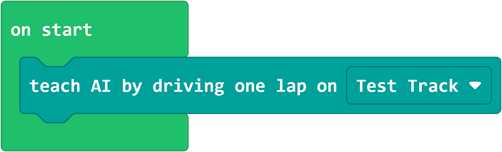
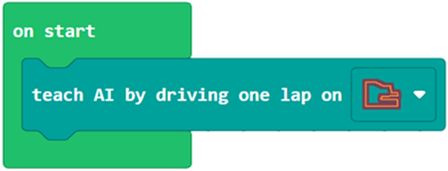
HoAI images for Educator Guide (#7792)
* HoAI images for Educator Guide

* updated educator guide

added Driven by STEM section and new images

* get this group of block images somewhat uniform in scale

* line spacing ahead of the images

* some format edits

---------

Changed region(s): [[0.0, 0.0, 1.0, 1.0]]

diff --git a/docs/tutorials/ai-race/ai-race-info.md b/docs/tutorials/ai-race/ai-race-info.md
@@ -1,12 +1,8 @@
-# Ready, Set, Race! 
+# Ready, Set, Race! | Educator Guide
 
 ![Banner](/static/tutorials/ai-race/racebanner.png "AI race")
 
-**Educator Guide**
-
-The **[Ready, Set, Race!](https://aka.ms/race)** tutorial introduces students to Artificial Intelligence (AI) through a fun game-based learning approach.
-
-Students will train an AI bot to drive a race car based on data from their own driving patterns. They can then compete against the AI bot in a race!
+The **[Ready, Set, Race!](https://aka.ms/race)** tutorial introduces students to Artificial Intelligence (AI) through a fun game-based learning approach. Students will train an AI bot to drive a race car based on data from their own driving patterns. They can then compete against the AI bot in a race!
 
 ## Lesson overview
 
@@ -23,60 +19,94 @@ Students will train an AI bot to drive a race car based on data from their own d
 
 Note: this tutorial does not use generative AI and students will not be exposed to an AI chatbot through this experience.
 
-**Learning Outcomes:**
+## Learning Outcomes
+
 By the end of this lesson, students will be able to:
-- Understand what Artificial Intelligence refers to
-- Explain imitation learning as a type of machine learning in which a model learns from examples or demonstrations
-- Describe the role of training data in an AI system, recognizing that their steering, acceleration, braking, and other driving actions become examples the AI learns from
+
+- Understand what Artificial Intelligence refers to.
+- Explain imitation learning as a type of machine learning in which a model learns from examples or demonstrations.
+- Describe the role of training data in an AI system, recognizing that their steering, acceleration, braking, and other driving actions become examples the AI learns from.
 - Interpret a visualization of training data, using the Memories chart to identify patterns
-- Make predictions about AI behavior based on its training data
-- Train and test an AI model through an iterative process, observing its behavior and collecting additional training data to improve performance
-- Evaluate how the quality and variety of training examples affect AI performance
-- Investigate AI generalization by testing how a model trained through one set of experiences performs in different racing environments or on different tracks
+- Make predictions about AI behavior based on its training data.
+- Train and test an AI model through an iterative process, observing its behavior and collecting additional training data to improve performance.
+- Evaluate how the quality and variety of training examples affect AI performance.
+- Investigate AI generalization by testing how a model trained through one set of experiences performs in different racing environments or on different tracks.
 
-**Key vocabulary:**
-- **Artificial Intelligence (AI)** - the ability of a computer or robot to appear to think and act like a human
+## Key vocabulary
+
+- **Artificial Intelligence (AI)** - the ability of a computer or robot to appear to think and act like a human.
 - **Imitation Learning** - a machine learning approach where AI agents acquire skills by mimicking expert behavior and demonstrations. This approach is widely used in robotics, autonomous driving, and control tasks.
-- **Training data** - information used to teach machine learning models how to recognize patterns, make predictions, or perform tasks
-- **Prediction** - the ability of a computer to anticipate future events or trends by learning patterns from past data
+- **Training data** - information used to teach machine learning models how to recognize patterns, make predictions, or perform tasks.
+- **Training & Testing** - collecting data, training an AI model and testing it is an iterative process.  To get the best models students should expect to go through the process of training and testing multiple times.
+- **Prediction** - the ability of a computer to anticipate future events or trends by learning patterns from past data.
 
-**CSTA Standards Alignment:**
+## CSTA Standards Alignment
+
 - E4-ALG-ML-02: Analyze relationships between the properties of training data and a machine learning model's output.
 - E3-ALG-ML-02: Investigate how a machine learning model can change when new data is added to a training set.
 - E5-ALG-ML-02: Train a machine learning model to make a classification or prediction.
-- MS-ALG-PS-05: Use an AI tool to generate outputs that assist in solving a computational problem
+- MS-ALG-PS-05: Use an AI tool to generate outputs that assist in solving a computational problem.
 - MS-ALG-ML-08: Evaluate the features and limitations of a machine learning model.
 
+## Driven by STEM curriculum tie-in
 
-**Suggested curriculum tie-in:**
-- Computer Science & AI Literacy
-- Data Science and Math
-- Game Design
-- Robotics
+This activity is part of a broader **[Driven by STEM](https://aka.ms/drivenbystem)** curriculum which helps students, and especially girls, explore how STEM shapes the world of motorsports. Through hands-on learning, role models, and real-world connections, the curriculum is designed to spark curiosity, build confidence, and open new possibilities. Driven by STEM is made possible through the partnership between Microsoft and the Mercedes-AMG PETRONAS F1 Team. 
+
+After completing the **Ready, Set, Race!** Hour of AI activity, a good next step is to explore the following Driven by STEM modules:
+- [Aerodynamics](https://www.drivenbystem.com/curriculum#aerodynamics) – explore how speed, resistance, and design choices affect performance
+- [Composites](https://www.drivenbystem.com/curriculum#composites) – discover how material choices affect performance, durability, and design
+- [Inspection & Quality Assurance](https://www.drivenbystem.com/curriculum#inspection) – investigate how precision, testing, and attention to detail support race-day success
+- [Finance](https://www.drivenbystem.com/curriculum#finance) – understand how strategy and decision-making influence results on and off the track
+- [Driven by STEM Skillmap](https://arcade.makecode.com/--skillmap#github:asmeets/driven-by-stem/skillmap) – build a race car using MakeCode
 
 ## Tutorial Steps
 
-1. **Learn to drive** - students will gain familiarity with the driving controls by following a short tutorial <br/>
+#### Learn to drive
+
+Students will gain familiarity with the driving controls by following a short tutorial. <br/>
+
 ![Learn to Drive](/static/tutorials/ai-race/learntodrive.png "Learn to Drive")
 
-2. **Train an AI** - students will drive around the race track collecting data points that will be used to train an AI bot <br/>
+#### Train an AI
+
+Students will drive around the race track collecting data points that will be used to train an AI bot. <br/>
+
 ![Train AI](/static/tutorials/ai-race/teachai.png "Train AI")
 
-3. **View data** - students will analyze the data in the Memories chart <br/>
+#### View data
+
+Students will analyze the data in the Memories chart. <br/>
+
 ![View data](/static/tutorials/ai-race/viewdata.png "View data")
 
-4. **Test AI** - students will watch as their AI drives the car around the track using the data it was trained on. They have the option to go back and train again if they are not happy with their AI bot's performance. <br/>
+#### Test AI
+
+Students will watch as their AI drives the car around the track using the data it was trained on. They have the option to go back and train again if they are not happy with their AI bot's performance. <br/>
+
 ![Test AI](/static/tutorials/ai-race/testai.png "Test AI")
 
-5. **Race setup** - students can customize their car's logo design and add background music to their race <br/>
-![Setup](/static/tutorials/ai-race/songlogo.png "Setup race")
+#### Pick your car and design your team logo
 
-6. **Race** - students can choose a racetrack and race against their AI bots! <br/>
-![Race](/static/tutorials/ai-race/race.png "Race")
+Students can pick a car to race and design their team's logo. <br/>
+
+![Design](/static/tutorials/ai-race/carlogo.png "Design car and logo")
+
+#### Add Music
+
+Compose some background music for the race. <br/>
+
+![Music](/static/tutorials/ai-race/music.png "Music")
+
+#### Set Player to Race
+
+Set the player as the driver racing against AI. <br/>
+
+![Set Player](/static/tutorials/ai-race/setplayer.png "Set Player")
 
 ## Classroom Discussion Questions
 
 ### Training data
+
 - Which of your driving actions became training examples for your AI bot? 
 - What might happen if you only demonstrated acceleration and never braking?
 - What patterns do you notice in the Memories chart? 
@@ -86,6 +116,7 @@ By the end of this lesson, students will be able to:
 - If your bot keeps making the same mistake, what new driving examples would you collect?
 
 ### AI Generalization
+
 - Predict how your bot will perform on a track it has not seen before. 
 - What features of the new track might make driving easier or harder?
 - If your bot succeeds on its training track but struggles on a different track, what does that tell you about what it learned?
@@ -93,7 +124,25 @@ By the end of this lesson, students will be able to:
 
 ## What's Next?
 
-When students are finished with **Ready, Set, Race!** consider encouraging them to complete another MakeCode Arcade tutorial or skillmap.
+After completing the tutorial, students can continue experimenting with their racing game.
+
+They can change the design of their car using the **choose color** block. <br/>
+
+![Choose color](/static/tutorials/ai-race/choosecolor.png "Choose car color")
+
+They can try racing on different tracks. <br/>
+
+![Tracks](/static/tutorials/ai-race/tracks.png "Racing tracks")
+
+They can continue training their AI bot on different race tracks. <br/>
+
+![Continue training](/static/tutorials/ai-race/continuetraining.png "Continue training")
+
+To simply play the game, use the **start racing game** block <br/>
+
+![Game](/static/tutorials/ai-race/playgame.png "Play game")
+
+When students are finished with **Ready, Set, Race!** consider using one of the other **[Driven by STEM](https://aka.ms/drivenbystem)** curriculum lessons, or encourage them to complete another MakeCode Arcade tutorial or skillmap on their own.
 
 - [Joy of Bubble Popping Tutorial](@homeurl@#tutorial:/tutorials/bubbles)
 - [Basketball Dunk Tutorial](@homeurl@--skillmap#docs:/tutorials/dunk)
